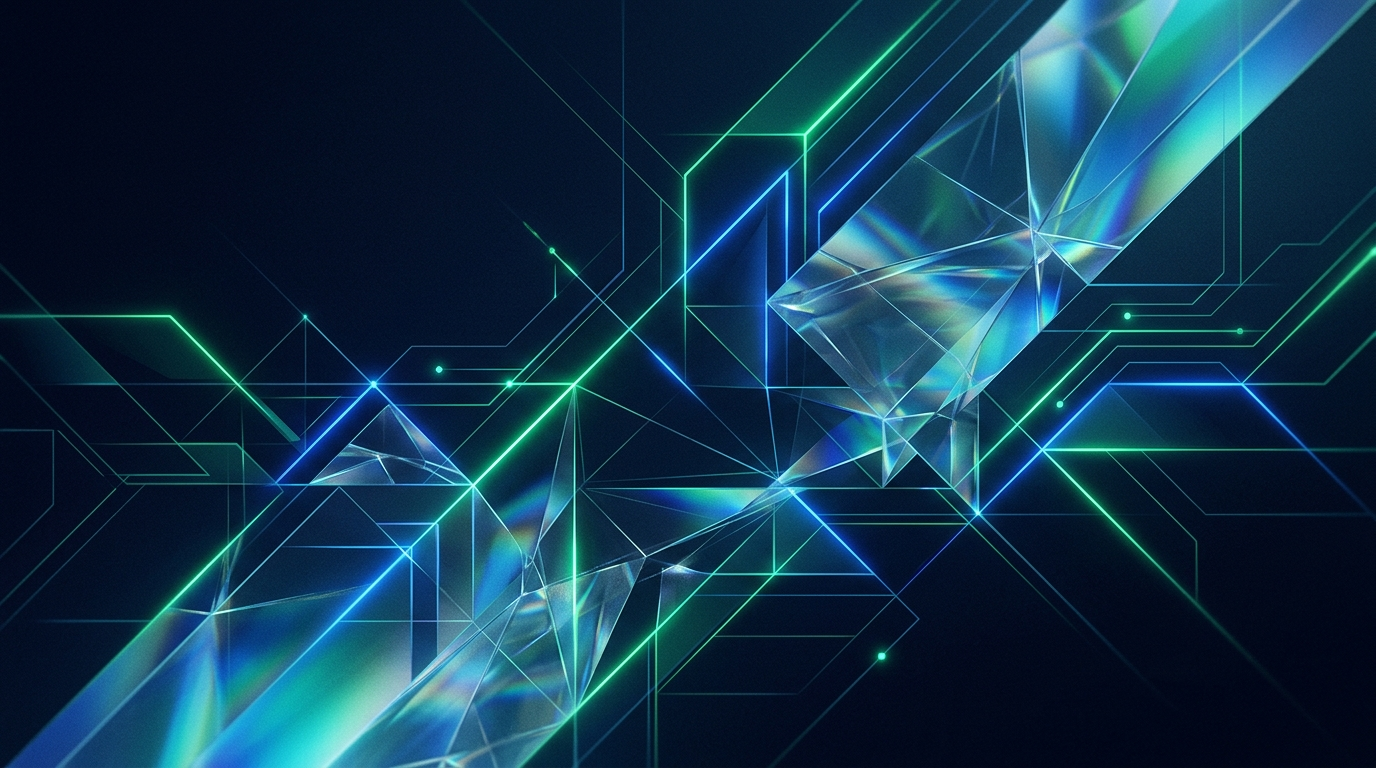
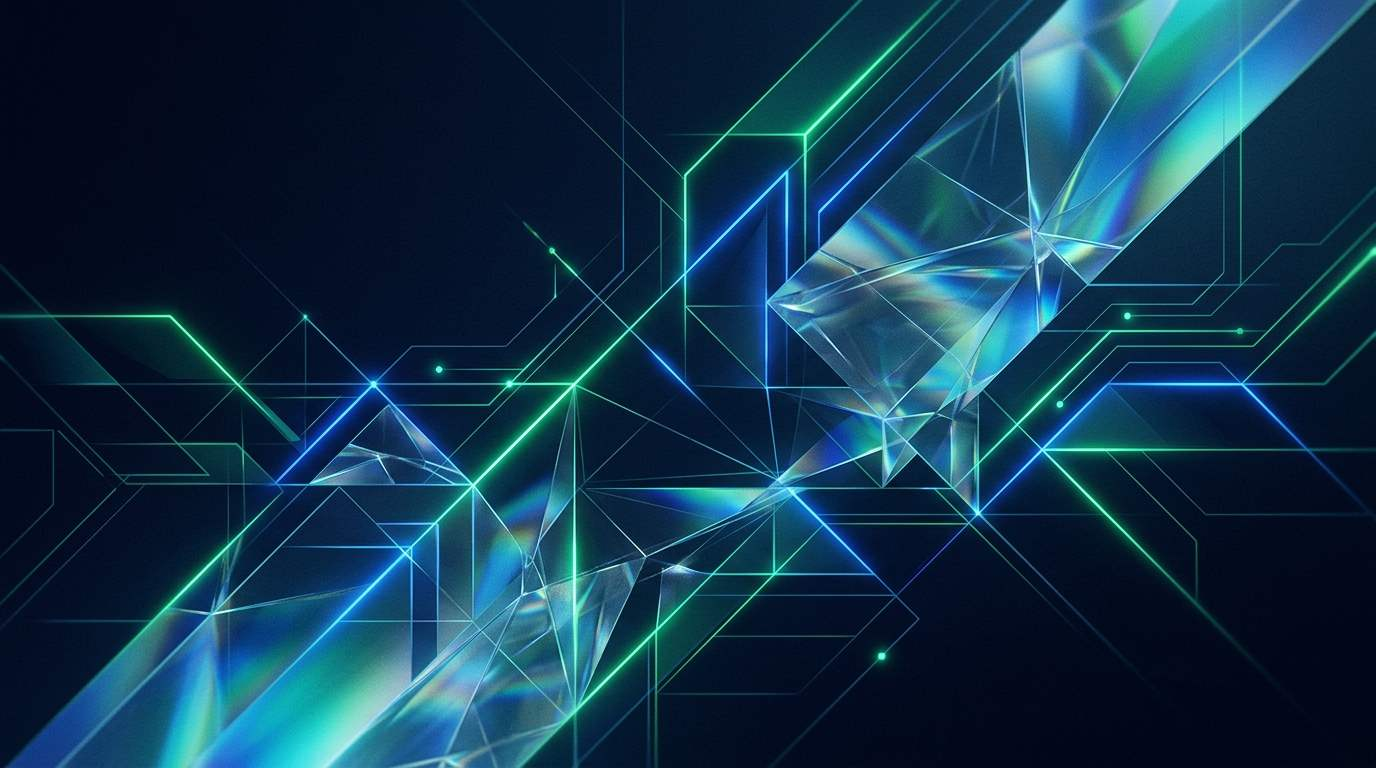
perf: compress background visual asset and implement page-level lazy loading code-splitting

diff --git a/frontend/src/App.jsx b/frontend/src/App.jsx
@@ -1,18 +1,20 @@
-import { useState, useEffect } from 'react';
+import { useState, useEffect, lazy, Suspense } from 'react';
 import { BrowserRouter as Router, Routes, Route, Navigate, Link, useLocation, useNavigate } from 'react-router-dom';
-import { ThemeProvider, CssBaseline, Box, Drawer, List, ListItem, ListItemButton, ListItemIcon, ListItemText, Typography, Avatar, InputBase, Badge, Container, IconButton, ToggleButtonGroup, ToggleButton, Menu, MenuItem, Popover, Button } from '@mui/material';
+import { ThemeProvider, CssBaseline, Box, Drawer, List, ListItem, ListItemButton, ListItemIcon, ListItemText, Typography, Avatar, InputBase, Badge, Container, IconButton, ToggleButtonGroup, ToggleButton, Menu, MenuItem, Popover, Button, CircularProgress } from '@mui/material';
 import SearchIcon from '@mui/icons-material/Search';
 import NotificationsNoneIcon from '@mui/icons-material/NotificationsNone';
 import PlaylistAddCheckIcon from '@mui/icons-material/PlaylistAddCheck';
 import theme from './theme';
 import { AuthProvider, useAuth } from './context/AuthContext';
 import ProtectedRoute from './components/ProtectedRoute';
-import AdminDashboard from './pages/AdminDashboard';
-import EmployeeBoard from './pages/EmployeeBoard';
 import Footer from './components/Footer';
 import { getEmployees } from './services/apiService';
 import SynergyLogo from './components/SynergyLogo';
 import WelcomeOverlay from './components/WelcomeOverlay';
+
+const AdminDashboard = lazy(() => import('./pages/AdminDashboard'));
+const EmployeeBoard = lazy(() => import('./pages/EmployeeBoard'));
+
 
 const DRAWER_WIDTH = 240;
 
@@ -431,31 +433,37 @@ function App() {
       <AuthProvider>
         <Router>
           <SidebarAndHeaderLayout>
-            <Routes>
-              {/* Admin View */}
-              <Route
-                path="/admin/dashboard"
-                element={
-                  <ProtectedRoute allowedRoles={['admin']}>
-                    <AdminDashboard />
-                  </ProtectedRoute>
-                }
-              />
+            <Suspense fallback={
+              <Box sx={{ display: 'flex', justifyContent: 'center', alignItems: 'center', minHeight: '50vh' }}>
+                <CircularProgress color="primary" />
+              </Box>
+            }>
+              <Routes>
+                {/* Admin View */}
+                <Route
+                  path="/admin/dashboard"
+                  element={
+                    <ProtectedRoute allowedRoles={['admin']}>
+                      <AdminDashboard />
+                    </ProtectedRoute>
+                  }
+                />
 
-              {/* Employee View */}
-              <Route
-                path="/employee/board"
-                element={
-                  <ProtectedRoute allowedRoles={['employee']}>
-                    <EmployeeBoard />
-                  </ProtectedRoute>
-                }
-              />
+                {/* Employee View */}
+                <Route
+                  path="/employee/board"
+                  element={
+                    <ProtectedRoute allowedRoles={['employee']}>
+                      <EmployeeBoard />
+                    </ProtectedRoute>
+                  }
+                />
 
-              {/* Default Fallbacks */}
-              <Route path="/" element={<RootRedirect />} />
-              <Route path="*" element={<RootRedirect />} />
-            </Routes>
+                {/* Default Fallbacks */}
+                <Route path="/" element={<RootRedirect />} />
+                <Route path="*" element={<RootRedirect />} />
+              </Routes>
+            </Suspense>
           </SidebarAndHeaderLayout>
         </Router>
       </AuthProvider>

diff --git a/frontend/src/pages/EmployeeBoard.jsx b/frontend/src/pages/EmployeeBoard.jsx
@@ -85,7 +85,7 @@ const EmployeeBoard = () => {
   return (
     <Box sx={{ py: 4, width: '100%' }}>
       <Typography variant="h5" sx={{ mb: 4, fontWeight: 'bold', color: '#f8fafc' }}>
-        My Work Board
+        Active Workload
       </Typography>
 
       {/* Workload Metrics Row */}
